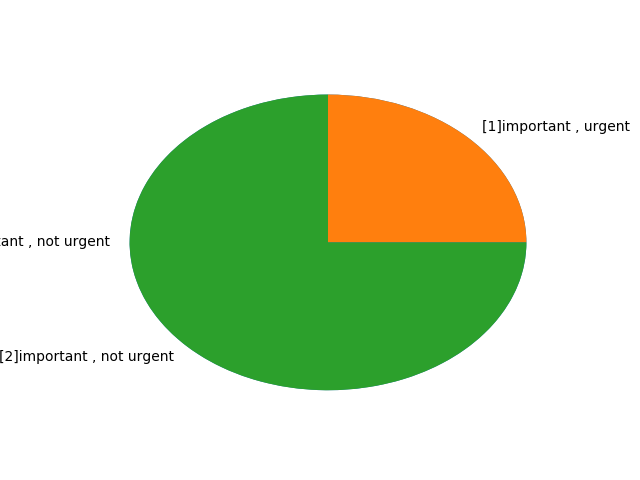
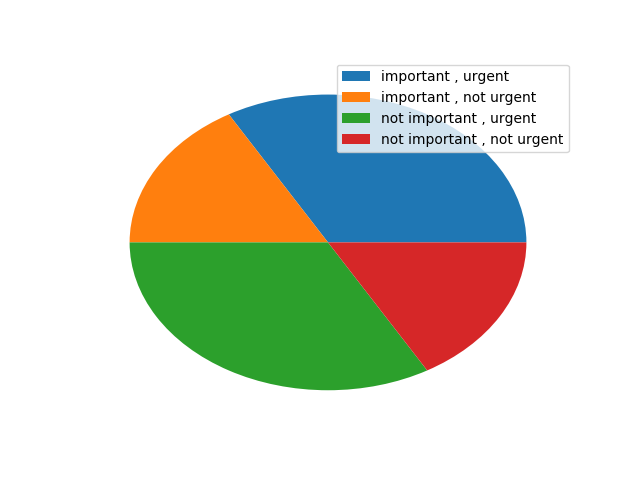
fixed chart

diff --git a/utiles/utiles.py b/utiles/utiles.py
@@ -13,7 +13,7 @@ import os
 import matplotlib
 matplotlib.use('Agg')
 import matplotlib.pyplot as plt
-
+import logging
 
 def genrate_sprint(pbs, sprint_length, end_date):
     start_date = pbs.start_date
@@ -93,12 +93,15 @@ def create_covey_graph(team=-1, user=1):
     value = list()
 
     for key in data:
-        keys.append(key)
-        value.append(data[key])
-
-    plt.pie([float(v) for v in value], labels=[k for k in keys],
-               autopct=None)
-
+        keys.append(key.name)
+        value.append(float(data[key]))
+    print("group key =" ,team)
+    print("keys= ",keys)
+    print("value= ", value)
+    # plt.pie(value, keys,autopct=None)
+    pie = plt.pie([float(v) for v in value],
+                   autopct=None)
+    plt.legend(pie[0], keys, loc="best")
     if team>0:
         team_name = get_object_or_404(Group, pk=team).name
         file_name = str(user)+"_group"+".png"
